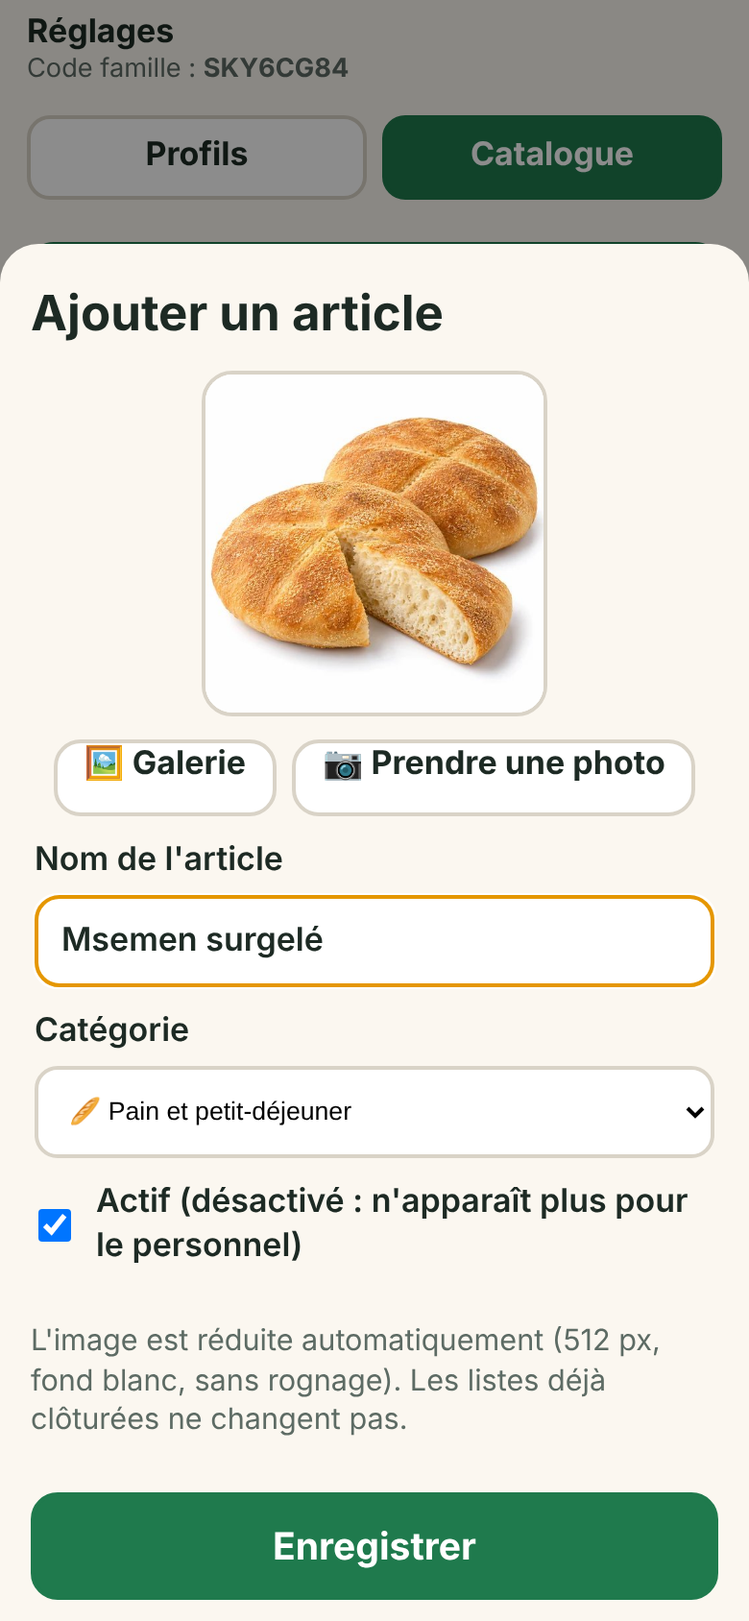
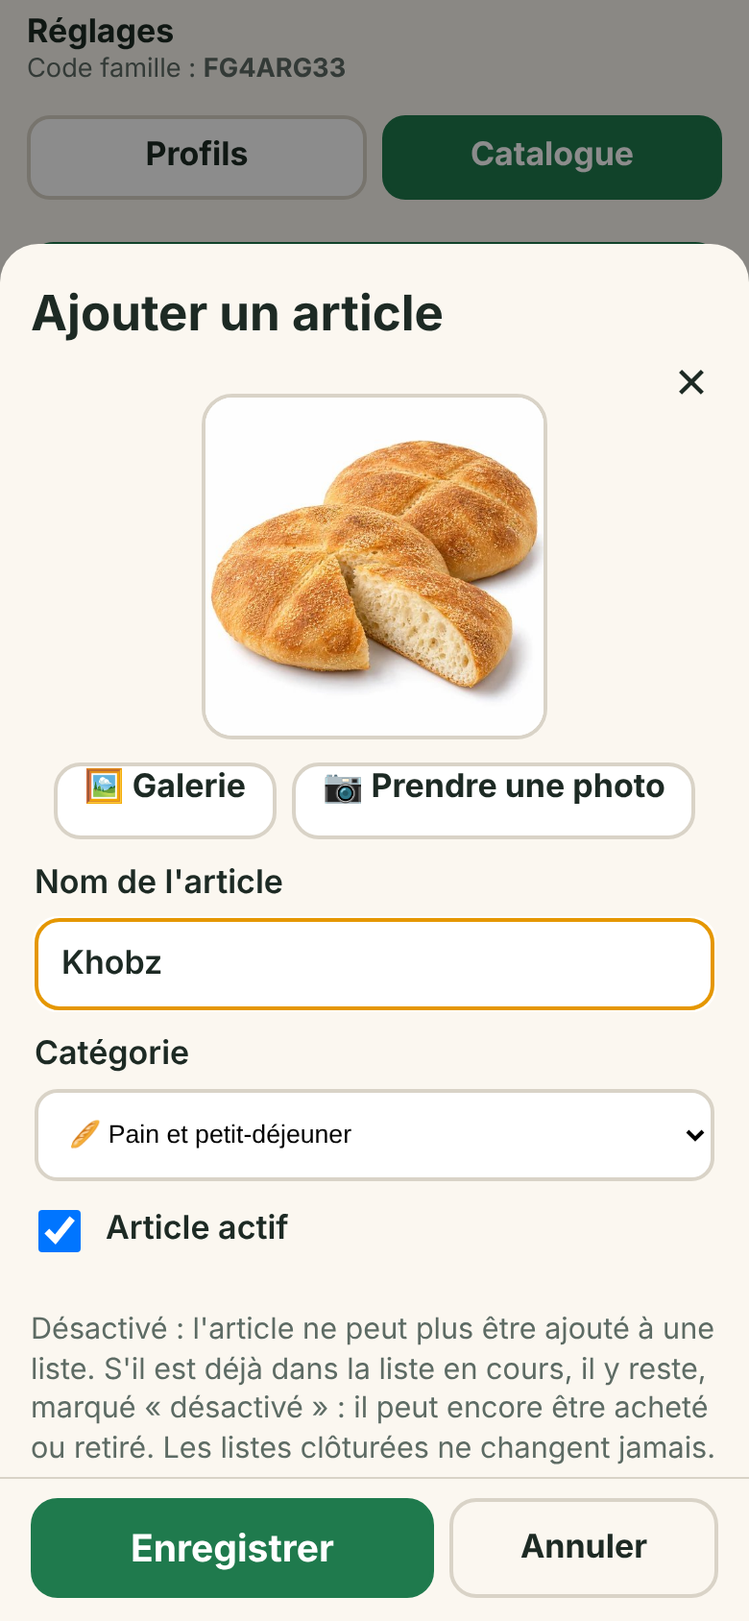
Admin catalogue : démo cohérente, règle de désactivation, formulaire mobile, vérification Docker
- Démonstration « Khobz » (pain, catégorie Pain et petit-déjeuner, image du pain rond).
- Désactivation : libellé « désactivé » (personnel, parent), texte du formulaire expliquant la règle ;
  test de bout en bout (non ajoutable, reste visible/achetable/retirable, archives inchangées).
- Formulaire : feuille alignée sur le viewport visuel (clavier), barre Enregistrer/Annuler collée en bas,
  bouton ✕, appui hors feuille ignoré si formulaire commencé, un seul envoi malgré le double appui,
  données conservées en cas d'échec ; tests dédiés.
- scripts/verify-docker.sh + workflow manuel (sans déploiement) ; recette téléphone.

Claude-Session: https://claude.ai/code/session_01FECw7ZbTKUbi6W7escaKrV

diff --git a/e2e/tests/articles-admin.spec.ts b/e2e/tests/articles-admin.spec.ts
@@ -31,21 +31,21 @@ test.describe("administration du catalogue : ajouter et modifier un article", ()
     await page.getByTestId("add-article").click();
     await expect(page.getByRole("dialog", { name: "Ajouter un article" })).toBeVisible();
     await expect(page.getByTestId("pf-save")).toBeDisabled(); // nom obligatoire
-    await page.getByTestId("pf-name").fill("Msemen surgelé");
+    await page.getByTestId("pf-name").fill("Khobz");
     await page.getByTestId("pf-category").selectOption("pain");
     await page.getByTestId("pick-gallery").setInputFiles(WIDE_PNG);
     const prev = page.getByTestId("preview-img");
     await expect(prev).toBeVisible();
     await expect(prev).toHaveCSS("object-fit", "contain");
-    await page.getByTestId("pick-gallery").setInputFiles(PAIN); // image réaliste pour la capture (remplace l'aperçu précédent)
+    await page.getByTestId("pick-gallery").setInputFiles(PAIN); // image du pain rond, cohérente avec « Khobz » (remplace l'aperçu précédent)
     await page.waitForTimeout(400);
     await page.screenshot({ path: "../docs/captures/admin-ajouter-un-article-390x844.png" });
     await page.getByTestId("pf-save").click();
     await expect(page.getByRole("dialog")).toHaveCount(0);
-    await expect(page.getByTestId("prod-Msemen surgelé")).toBeVisible();
+    await expect(page.getByTestId("prod-Khobz")).toBeVisible();
 
     // chez le personnel : l'article apparaît (événement catalog.updated), avec son image
-    const added = (await (await f.staff.get("/api/catalog")).json()).categories.find((c: any) => c.key === "pain").products.find((p: any) => p.name === "Msemen surgelé");
+    const added = (await (await f.staff.get("/api/catalog")).json()).categories.find((c: any) => c.key === "pain").products.find((p: any) => p.name === "Khobz");
     expect(added.photoUrl).toMatch(/^\/api\/photos\//);
     const sc = staff.getByTestId(`card-${added.id}`);
     await expect(sc).toBeAttached();
@@ -136,5 +136,132 @@ test.describe("administration du catalogue : ajouter et modifier un article", ()
       expect((await who.patch(`/api/products/${f.products["Pain"]}`, { data: { name: "Pirate" } })).status()).toBe(403);
     }
     expect((await f.adil.post("/api/products", { data: { name: "Autorisé", category: "pain" } })).status()).toBe(201);
+  });
+
+  test("désactivation : plus ajoutable ; reste visible, marqué, achetable et retirable dans la liste en cours ; archives inchangées", async ({ browser, playwright, baseURL }) => {
+    const f = await newFamily(playwright, baseURL!);
+    const listId = await createList(f);
+    const add = (id: string) => f.staff.post(`/api/lists/${listId}/ops`, { data: { ops: [{ opId: crypto.randomUUID(), type: "add", productId: id }] } });
+    // archive témoin : une liste close avec Tomates
+    await add(f.products["Tomates"]!);
+    await f.lamiaa.post(`/api/lists/${listId}/close`);
+    const oldArchive = (await (await f.lamiaa.get(`/api/lists/${listId}`)).json()).list;
+    const list2 = (await (await f.lamiaa.post("/api/lists")).json()).list.id as string;
+    const add2 = async (id: string) => (await (await f.staff.post(`/api/lists/${list2}/ops`, { data: { ops: [{ opId: crypto.randomUUID(), type: "add", productId: id }] } })).json()).results[0];
+    expect((await add2(f.products["Tomates"]!)).status).toBe("applied");
+    expect((await add2(f.products["Oignons"]!)).status).toBe("applied");
+
+    // désactivation par le formulaire de l'administrateur
+    const ctx = await browser.newContext({ viewport: { width: 390, height: 844 }, hasTouch: true, isMobile: true });
+    const page = await ctx.newPage();
+    await adminCatalog(page, f);
+    await expect(page.getByTestId("edit-Tomates")).toBeVisible();
+    for (const n of ["Tomates", "Oignons", "Carottes"]) {
+      await page.getByTestId(`edit-${n}`).click();
+      await expect(page.getByTestId("pf-rule")).toContainText("ne peut plus être ajouté");
+      if (n === "Tomates") { await page.getByTestId("pf-active").uncheck(); await page.evaluate(() => document.querySelector(".sheet")!.scrollTo(0, 99999)); await page.waitForTimeout(200); await page.screenshot({ path: "../docs/captures/admin-desactiver-un-article-390x844.png" }); await page.getByTestId("pf-active").check(); }
+      await page.getByTestId("pf-active").uncheck();
+      await page.getByTestId("pf-save").click();
+      await expect(page.getByRole("dialog")).toHaveCount(0);
+      await expect(page.getByTestId(`prod-${n}`)).toContainText("désactivé");
+    }
+    // 1. plus ajoutable (Carottes n'était pas dans la liste)
+    expect((await add2(f.products["Carottes"]!)).reason).toBe("product_inactive");
+    // 2. déjà dans la liste : visible et marqué chez le personnel et chez le parent
+    const staffCtx = await browser.newContext({ viewport: { width: 390, height: 844 }, hasTouch: true, isMobile: true });
+    const staff = await staffCtx.newPage();
+    await uiLogin(staff, f);
+    const tom = staff.getByTestId(`card-${f.products["Tomates"]}`);
+    await expect(tom).toContainText("désactivé");
+    await expect(staff.getByTestId(`card-${f.products["Carottes"]}`)).toHaveCount(0);
+    const parentCtx = await browser.newContext({ viewport: { width: 390, height: 844 }, hasTouch: true, isMobile: true });
+    const parent = await parentCtx.newPage();
+    await uiLogin(parent, f, "lamiaa", "573918");
+    await expect(parent.getByTestId(`row-${f.products["Tomates"]}`)).toContainText("désactivé");
+    // achetable (parent)
+    await parent.getByTestId(`buy-${f.products["Tomates"]}`).click();
+    await expect(parent.getByTestId(`by-${f.products["Tomates"]}`)).toContainText("Acheté par");
+    // retirable tant que non acheté (personnel)
+    const view = (await (await f.staff.get("/api/lists/active")).json()).list;
+    const oignons = view.items.find((i: any) => i.productId === f.products["Oignons"]);
+    expect(oignons.productActive).toBe(false);
+    const rm = await f.staff.post(`/api/lists/${list2}/ops`, { data: { ops: [{ opId: crypto.randomUUID(), type: "remove", productId: oignons.productId, baseRev: oignons.rev }] } });
+    expect((await rm.json()).results[0].status).toBe("applied");
+    // 3. archives inchangées
+    const after = (await (await f.lamiaa.get(`/api/lists/${listId}`)).json()).list;
+    expect(after.items.map((i: any) => ({ name: i.name, category: i.category, photoUrl: i.photoUrl }))).toEqual(oldArchive.items.map((i: any) => ({ name: i.name, category: i.category, photoUrl: i.photoUrl })));
+    await ctx.close();
+    await staffCtx.close();
+    await parentCtx.close();
+  });
+
+  test("formulaire sur mobile, clavier ouvert : champs, Enregistrer et fermeture restent accessibles", async ({ browser, playwright, baseURL }) => {
+    const f = await newFamily(playwright, baseURL!);
+    const ctx = await browser.newContext({ viewport: { width: 360, height: 640 }, hasTouch: true, isMobile: true });
+    const page = await ctx.newPage();
+    await adminCatalog(page, f);
+    await page.getByTestId("add-article").click();
+    await page.getByTestId("pf-name").focus();
+    await page.setViewportSize({ width: 360, height: 320 }); // clavier ouvert : il ne reste que ~320 px
+    await page.waitForTimeout(300);
+    const inView = async (id: string) => {
+      const b = (await page.getByTestId(id).boundingBox())!;
+      expect(b, id).not.toBeNull();
+      expect(b.y).toBeGreaterThanOrEqual(0);
+      expect(b.y + b.height).toBeLessThanOrEqual(321); // tolérance de 1 px (arrondis)
+    };
+    await page.getByTestId("pf-name").fill("Khobz");
+    await page.getByTestId("pf-name").scrollIntoViewIfNeeded(); // comme le navigateur le fait à la frappe
+    await inView("pf-name");
+    const nameBox = (await page.getByTestId("pf-name").boundingBox())!;
+    expect(nameBox.y + nameBox.height).toBeLessThanOrEqual((await page.getByTestId("pf-save").boundingBox())!.y); // pas masqué par la barre du bas
+    await inView("pf-save"); // collés en bas de la feuille
+    await inView("pf-cancel");
+    await inView("pf-close");
+    await page.screenshot({ path: "../docs/captures/admin-formulaire-clavier-360x320.png" });
+    // un appui hors de la feuille ne ferme pas un formulaire commencé
+    await page.mouse.click(180, 2);
+    await expect(page.getByTestId("product-form")).toBeVisible();
+    await page.getByTestId("pf-close").click();
+    await expect(page.getByRole("dialog")).toHaveCount(0);
+    await ctx.close();
+  });
+
+  test("Enregistrer : un seul envoi malgré le double appui ; échec = données conservées ; succès = fermeture", async ({ browser, playwright, baseURL }) => {
+    const f = await newFamily(playwright, baseURL!);
+    const ctx = await browser.newContext({ viewport: { width: 390, height: 844 }, hasTouch: true, isMobile: true });
+    const page = await ctx.newPage();
+    await adminCatalog(page, f);
+    await page.getByTestId("add-article").click();
+    await page.getByTestId("pf-name").fill("Khobz");
+    await page.getByTestId("pf-category").selectOption("pain");
+    await page.getByTestId("pick-gallery").setInputFiles(PAIN);
+    await expect(page.getByTestId("preview-img")).toHaveAttribute("src", /^blob:/);
+    // 1. serveur injoignable : message, formulaire et données conservés
+    await page.route("**/api/products", (r) => r.request().method() === "POST" ? r.abort("failed") : r.continue());
+    await page.getByTestId("pf-save").click();
+    await expect(page.getByTestId("pf-error")).toContainText("Pas de connexion");
+    await expect(page.getByTestId("product-form")).toBeVisible();
+    await expect(page.getByTestId("pf-name")).toHaveValue("Khobz");
+    await expect(page.getByTestId("pf-category")).toHaveValue("pain");
+    await expect(page.getByTestId("preview-img")).toHaveAttribute("src", /^blob:/);
+    await expect(page.getByTestId("pf-save")).toBeEnabled();
+    await page.unroute("**/api/products");
+    // 2. double appui sur une réponse lente : un seul POST
+    let posts = 0;
+    await page.route("**/api/products", async (r) => {
+      if (r.request().method() !== "POST") return r.continue();
+      posts++;
+      await new Promise((ok) => setTimeout(ok, 800));
+      return r.continue();
+    });
+    await page.getByTestId("pf-save").dblclick();
+    await expect(page.getByTestId("pf-save")).toBeDisabled();
+    await expect(page.getByRole("dialog")).toHaveCount(0); // fermé après succès
+    expect(posts).toBe(1);
+    await expect(page.getByTestId("prod-Khobz")).toBeVisible();
+    const all = (await (await f.adil.get("/api/catalog")).json()).categories.flatMap((c: any) => c.products).filter((p: any) => p.name === "Khobz");
+    expect(all).toHaveLength(1);
+    await ctx.close();
   });
 });

diff --git a/web/src/components/ProductForm.tsx b/web/src/components/ProductForm.tsx
@@ -1,4 +1,4 @@
-import { useEffect, useState } from "react";
+import { useEffect, useRef, useState } from "react";
 import { api, ApiError, NetworkError } from "../api";
 import { CATEGORY_EMOJI } from "../categories";
 import { prepareImage } from "../image";
@@ -27,6 +27,8 @@ export function ProductForm({ product, categories, onClose, onSaved }: Props) {
   const [reset, setReset] = useState(false);
   const [error, setError] = useState<string | null>(null);
   const [busy, setBusy] = useState(false);
+  const inFlight = useRef(false); // un deuxième appui avant le rendu suivant ne doit pas envoyer deux fois
+  const dirty = !!image || reset || name !== (product?.name ?? "") || category !== (product?.category ?? categories[0]?.key ?? "") || active !== (product?.active ?? true);
   useEffect(() => () => { if (image) URL.revokeObjectURL(image.previewUrl); }, [image]);
 
   const pick = async (f: File | undefined) => {
@@ -44,9 +46,12 @@ export function ProductForm({ product, categories, onClose, onSaved }: Props) {
   const title = product ? "Modifier un article" : "Ajouter un article";
 
   return (
-    <Dialog title={title} onClose={onClose}>
+    <Dialog title={title} onClose={onClose} dismissable={!busy && !dirty}>
+      <button type="button" className="sheet__close" aria-label="Fermer" data-testid="pf-close" onClick={onClose}>✕</button>
       <form className="form" data-testid="product-form" onSubmit={async (e) => {
         e.preventDefault();
+        if (inFlight.current) return;
+        inFlight.current = true;
         setBusy(true);
         setError(null);
         try {
@@ -56,6 +61,7 @@ export function ProductForm({ product, categories, onClose, onSaved }: Props) {
         } catch (err) {
           setError(errText(err));
         } finally {
+          inFlight.current = false;
           setBusy(false);
         }
       }}>
@@ -77,11 +83,14 @@ export function ProductForm({ product, categories, onClose, onSaved }: Props) {
             {categories.map((c) => <option key={c.key} value={c.key}>{CATEGORY_EMOJI[c.key]} {c.label}</option>)}
           </select>
         </label>
-        <label className="check"><input type="checkbox" checked={active} onChange={(e) => setActive(e.target.checked)} data-testid="pf-active" /> Actif (désactivé : n'apparaît plus pour le personnel)</label>
-        <p className="muted">L'image est réduite automatiquement (512 px, fond blanc, sans rognage). Les listes déjà clôturées ne changent pas.</p>
+        <label className="check"><input type="checkbox" checked={active} onChange={(e) => setActive(e.target.checked)} data-testid="pf-active" /> Article actif</label>
+        <p className="muted" data-testid="pf-rule">Désactivé : l'article ne peut plus être ajouté à une liste. S'il est déjà dans la liste en cours, il y reste, marqué « désactivé » : il peut encore être acheté ou retiré. Les listes clôturées ne changent jamais.</p>
+        <p className="muted">L'image est réduite automatiquement (512 px, fond blanc, sans rognage).</p>
         {error && <p className="error" role="alert" data-testid="pf-error">{error}</p>}
-        <button className="btn btn--primary btn--big" disabled={busy || !name.trim()} data-testid="pf-save">{busy ? "Enregistrement…" : "Enregistrer"}</button>
-        <button type="button" className="btn btn--ghost" onClick={onClose}>Annuler</button>
+        <div className="form__actions">
+          <button className="btn btn--primary btn--big" disabled={busy || !name.trim()} aria-busy={busy} data-testid="pf-save">{busy ? "Enregistrement…" : "Enregistrer"}</button>
+          <button type="button" className="btn btn--ghost" disabled={busy} data-testid="pf-cancel" onClick={onClose}>Annuler</button>
+        </div>
       </form>
     </Dialog>
   );

diff --git a/web/src/styles.css b/web/src/styles.css
@@ -109,8 +109,8 @@ h1, h2 { margin: 0; }
 .nolist__icon { font-size: 4rem; }
 
 /* ---- sheet ---- */
-.sheet-backdrop { position: fixed; inset: 0; background: rgb(0 0 0 / 0.45); display: grid; align-items: end; z-index: 50; }
-.sheet { background: var(--bg); border-radius: 20px 20px 0 0; padding: 20px 16px calc(20px + var(--safe-bottom)); display: grid; gap: 12px; max-height: 85dvh; overflow: auto; }
+.sheet-backdrop { position: fixed; inset: 0; overscroll-behavior: contain; background: rgb(0 0 0 / 0.45); display: grid; align-items: end; z-index: 50; }
+.sheet { background: var(--bg); border-radius: 20px 20px 0 0; padding: 20px 16px calc(20px + var(--safe-bottom)); display: grid; gap: 12px; max-height: min(85dvh, 100%); overflow: auto; }
 .credits { margin: 0; padding-left: 18px; font-size: 0.85rem; color: var(--muted); }
 
 /* ---- parents ---- */
@@ -165,3 +165,9 @@ h1, h2 { margin: 0; }
 .check input { width: 22px; height: 22px; }
 .row--cat { flex-wrap: wrap; }
 .row--cat .rowbtns { flex: 0 0 100%; display: flex; gap: 8px; justify-content: flex-end; }
+.sheet__close { position: sticky; top: 0; z-index: 2; justify-self: end; margin: -14px -8px -44px 0; width: 44px; height: 44px; border-radius: 50%; border: 0; background: transparent; font-size: 1.3rem; cursor: pointer; }
+.form__actions { position: sticky; bottom: calc(-20px - var(--safe-bottom)); display: grid; grid-template-columns: 3fr 2fr; gap: 8px; margin: 0 -16px; padding: 10px 16px calc(12px + var(--safe-bottom)); background: var(--bg); border-top: 1px solid var(--line); }
+@media (max-height: 560px) { .preview { width: 88px; height: 88px; } .preview__empty { font-size: 1.6rem; } .preview__empty small { display: none; } }
+.sheet { scroll-padding-bottom: 96px; }
+.form__actions .btn--big { min-height: 52px; }
+@media (max-height: 560px) { .form__actions { grid-template-columns: 1fr 1fr; } .sheet { scroll-padding-bottom: 80px; } }

diff --git a/web/src/components/Dialog.tsx b/web/src/components/Dialog.tsx
@@ -1,8 +1,30 @@
-import type { ReactNode } from "react";
+import { useEffect, useRef, type ReactNode } from "react";
 
-export function Dialog({ title, children, onClose }: { title: string; children: ReactNode; onClose(): void }) {
+/**
+ * Bottom sheet. It follows the *visual* viewport, so that on a phone the on-screen keyboard never hides it
+ * (the sheet shrinks and scrolls instead). `dismissable=false` keeps a tap outside from closing it (unsaved form).
+ */
+export function Dialog({ title, children, onClose, dismissable = true }: { title: string; children: ReactNode; onClose(): void; dismissable?: boolean }) {
+  const backdrop = useRef<HTMLDivElement>(null);
+  useEffect(() => {
+    const vv = window.visualViewport;
+    const el = backdrop.current;
+    if (!vv || !el) return;
+    const fit = () => {
+      el.style.top = `${vv.offsetTop}px`;
+      el.style.height = `${vv.height}px`;
+      el.style.bottom = "auto";
+    };
+    fit();
+    vv.addEventListener("resize", fit);
+    vv.addEventListener("scroll", fit);
+    return () => {
+      vv.removeEventListener("resize", fit);
+      vv.removeEventListener("scroll", fit);
+    };
+  }, []);
   return (
-    <div className="sheet-backdrop" onClick={onClose}>
+    <div className="sheet-backdrop" ref={backdrop} onClick={dismissable ? onClose : undefined}>
       <div className="sheet" role="dialog" aria-modal="true" aria-label={title} onClick={(e) => e.stopPropagation()}>
         <h2>{title}</h2>
         {children}

diff --git a/web/src/screens/Parent.tsx b/web/src/screens/Parent.tsx
@@ -92,7 +92,7 @@ function Current({ engine, s, onEdit }: { engine: Engine; s: State; onEdit(): vo
           {toBuy.map((i) => (
             <li key={i.id} className="row" data-testid={`row-${i.productId}`}>
               <Thumb photoUrl={i.photoUrl} category={i.category} />
-              <span className="row__name">{i.name}{i.brand && <small>{i.brand}</small>}{!i.productActive && <small>plus proposé</small>}</span>
+              <span className="row__name">{i.name}{i.brand && <small>{i.brand}</small>}{!i.productActive && <small>désactivé</small>}</span>
               <button className="btn btn--primary" data-testid={`buy-${i.productId}`} disabled={busy === i.id} onClick={() => void buy(i.id)}>Acheté</button>
             </li>
           ))}

diff --git a/web/src/sync/logic.ts b/web/src/sync/logic.ts
@@ -81,7 +81,7 @@ export interface Interpreted {
 const REASON_TEXT: Record<string, string> = {
   stale: "a changé entre-temps : vérifiez avant de le retirer",
   locked_purchased: "est déjà acheté : il ne peut plus être retiré",
-  product_inactive: "n'est plus proposé dans le catalogue",
+  product_inactive: "est désactivé : il ne peut plus être ajouté",
   product_unknown: "est introuvable",
   item_unknown: "n'est plus dans la liste",
   item_removed: "a été retiré de la liste",

diff --git a/web/index.html b/web/index.html
@@ -2,7 +2,7 @@
 <html lang="fr">
   <head>
     <meta charset="UTF-8" />
-    <meta name="viewport" content="width=device-width, initial-scale=1, viewport-fit=cover" />
+    <meta name="viewport" content="width=device-width, initial-scale=1, viewport-fit=cover, interactive-widget=resizes-content" />
     <meta name="theme-color" content="#1f7a4d" />
     <link rel="apple-touch-icon" href="/icons/icon-192.png" />
     <title>Courses</title>

diff --git a/web/src/components/ProductCard.tsx b/web/src/components/ProductCard.tsx
@@ -56,7 +56,7 @@ export const ProductCard = memo(function ProductCard({ productId, name, brand, p
       <span className="card__name">
         {name}
         {brand ? <small>{brand}</small> : null}
-        {inactive ? <small>plus proposé</small> : null}
+        {inactive ? <small>désactivé</small> : null}
       </span>
     </button>
   );

diff --git a/docs/recette.md b/docs/recette.md
@@ -49,5 +49,6 @@ Trois niveaux de tests : serveur (vrai PostgreSQL, courses de concurrence), mote
 - **Sauvegardes** : client `pg_dump` de même version majeure que le serveur, choisi automatiquement ; stockage refusé s'il n'est pas sûr en production ; état affiché dans Réglages.
 - **États distincts** : « ✓ Enregistré sur le serveur » n'apparaît qu'après confirmation du serveur et disparaît dès qu'il ne répond plus ; « ⏳ En attente de synchronisation » = validé mais non confirmé ; « N à valider » = choisi, pas encore envoyé ; compteurs séparés « enregistrés sur le serveur » / « pas encore enregistrés ». Captures du code testé dans `docs/captures/`.
 - **80 visuels du catalogue (génériques, « Image générée avec ChatGPT »)** : manifeste vérifié en entier avant écriture (nom exact, SHA-256, lisibilité, provenance), remplacement transactionnel sans changer les identifiants, idempotent au redémarrage, images de la famille jamais écrasées, purge des anciennes images non référencées (répétition : 46 anciennes images, 1 355 874 octets libérés, 80 fichiers restants), archives inchangées (nom, marque, image, catégorie figés). Administrateur : ajouter / modifier un article (nom, catégorie, image galerie ou appareil photo, aperçu, optimisation 512 px fond blanc sans rognage, actif/désactivé, image d'origine), visible chez le personnel et les parents sans recharger (événement `catalog.updated`) ; droits : seul l'administrateur modifie le catalogue, le personnel sélectionne. Cache téléphone `photos-v2` (l'ancien cache `photos` est supprimé). Tests : 129 serveur, 34 client, 33 de bout en bout. La prise de photo réelle par l'appareil du téléphone n'est pas testable ici (champ `capture="environment"` vérifié, fichier injecté).
+- **Désactivation, clavier mobile, double appui** (36 tests de bout en bout) : un article désactivé n'est plus ajoutable, reste visible et marqué « désactivé » dans la liste en cours, achetable et retirable (non acheté), archives inchangées ; feuille « Ajouter / Modifier » visible avec le clavier ouvert (barre Enregistrer / Annuler collée en bas, bouton ✕), un seul envoi malgré le double appui, données conservées en cas d'échec, fermeture après succès, appui hors de la feuille sans effet si le formulaire est commencé. Parcours sur téléphone : `docs/recette-telephone.md`. Vérification de l'image Docker : `scripts/verify-docker.sh` (**à lancer sur une machine avec Docker**, non exécutable dans l'environnement de développement).
 - *(Historique)* Photos du catalogue de l'étape précédente : 46 photos libres importées au démarrage (vérifié dans l'image Docker, utilisateur non privilégié), servies avec cache, crédits générés ; outil de recherche exécuté contre l'API réelle de Wikimedia Commons (15 tests + exécution réelle) ; import tout-ou-rien, sans écraser les photos de la famille (4 tests).
 - **Corrigé pendant ce travail** : un appui sur « Valider » pendant un envoi en cours pouvait être ignoré sans message (corrigé, testé) ; un import de photos pouvait être partiel si une clé était inconnue (corrigé, testé).

diff --git a/docs/recette-telephone.md b/docs/recette-telephone.md
@@ -1,0 +1,28 @@
+# Recette sur téléphone : gérer le catalogue (≈ 10 minutes)
+
+Matériel : **deux téléphones** (ou un téléphone et un ordinateur), l'application ouverte sur les deux.
+- Téléphone A : profil **administrateur** (Adil).
+- Téléphone B : second profil, d'abord **personnel**, puis **parent**.
+Avant de commencer : une liste est en cours (Parent → créer une liste si besoin).
+
+| # | Sur… | Action | Résultat attendu |
+|---|---|---|---|
+| 1 | A | Réglages → Catalogue → **+ Ajouter un article** | La feuille « Ajouter un article » s'ouvre ; **Enregistrer** est grisé tant que le nom est vide |
+| 2 | A | Nom « Khobz », catégorie « Pain et petit-déjeuner » | Le clavier s'ouvre : le champ, **Enregistrer**, **Annuler** et ✕ restent visibles |
+| 3 | A | **📷 Prendre une photo** : photographier un pain (ou **🖼 Galerie**) | L'appareil photo s'ouvre ; l'aperçu montre la photo **entière** sur fond blanc |
+| 4 | A | **Enregistrer** (essayer d'appuyer deux fois) | Un seul article créé ; la feuille se ferme ; « Khobz » apparaît dans le catalogue |
+| 5 | B (personnel) | Rien à faire (ne pas recharger) | « Khobz » apparaît dans « Pain et petit-déjeuner » avec sa photo, en quelques secondes |
+| 6 | B (personnel) | Toucher « Khobz » puis **Valider** | Il passe en « Enregistré sur le serveur » |
+| 7 | A | Modifier « Khobz » : nouveau nom « Khobz complet », autre photo | L'aperçu montre la nouvelle photo ; après **Enregistrer**, B voit le nouveau nom et la nouvelle photo |
+| 8 | A | Réglages → Catalogue → **Modifier** « Khobz complet » → **Image d'origine** puis annuler (ou enregistrer) | Pour un article d'origine : retour à l'image du catalogue ; pour un article ajouté : tuile neutre |
+| 9 | A | **Modifier** « Khobz complet », décocher **Article actif**, **Enregistrer** | Le texte de la feuille explique la règle ; la ligne indique « désactivé » |
+| 10 | B (personnel) | Regarder la liste | « Khobz complet » **reste** dans la liste en cours, marqué « désactivé » ; on peut encore le retirer tant qu'il n'est pas acheté |
+| 11 | B (parent) | Se connecter en parent : « Khobz complet » → **Acheté** | L'achat est enregistré, malgré « désactivé » |
+| 12 | A | Chercher un autre article désactivé (ex. « Carottes ») et le désactiver | Personne ne peut plus l'ajouter ; il disparaît des choix du personnel |
+| 13 | B (parent) | Clôturer la liste, ouvrir **Historique** | Les noms, photos et catégories de la liste close sont **inchangés** (anciens noms conservés) |
+| 14 | A | Mode avion, puis Modifier un article → Enregistrer | Message « Pas de connexion… », la feuille reste ouverte avec **toutes** les données saisies ; rétablir le réseau → Enregistrer réussit |
+| 15 | B (personnel) | Menu du profil → **Crédits photos** | Une ligne « 80 visuels du catalogue : Image générée avec ChatGPT » |
+
+Remise à zéro après la recette : réactiver (ou laisser désactivés) les articles d'essai ; aucun n'efface l'historique.
+
+À signaler si une étape échoue : numéro de ligne, téléphone/navigateur, capture d'écran.
